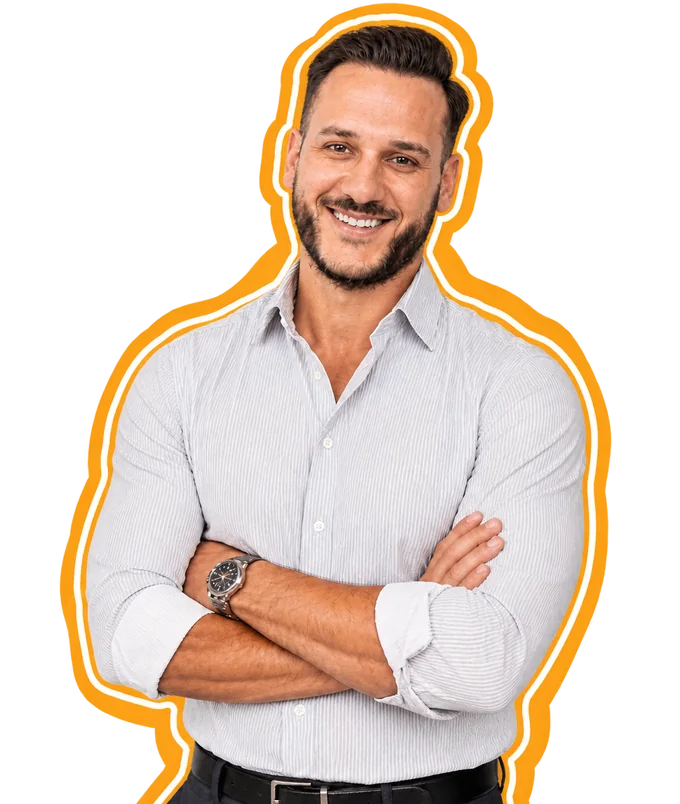
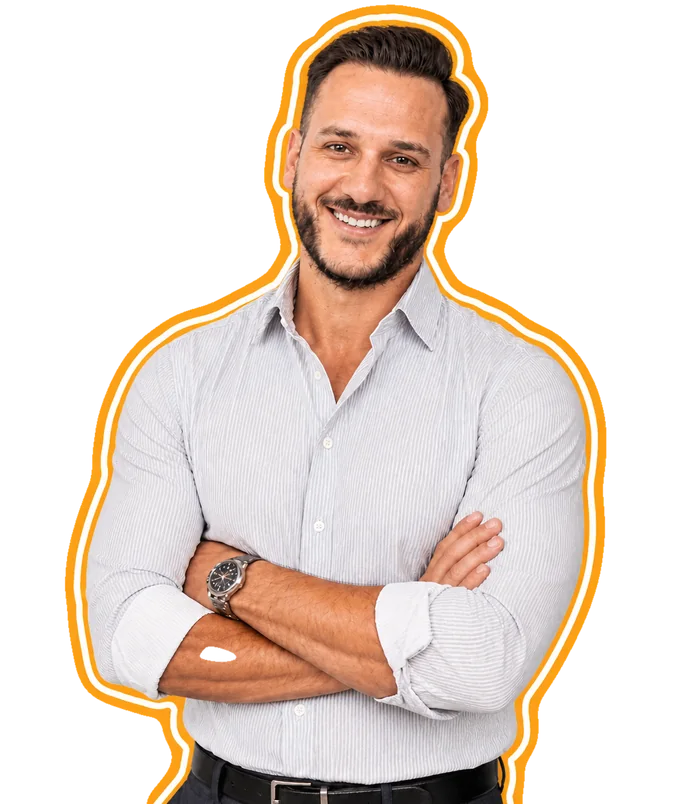
Erstgespraech: duennere Kontur, Mail-Zeile raus, Band flacher und hoeher
Ring: Auftraggeber "umrandung aussen orange etwas zu dick miss nach". Gemessen
in seiner Vorlage 2,73 Prozent der Motivbreite, eingebaut 2,70 - also
unveraendert uebernommen, ich hatte nur zugeschnitten. Jetzt auf
2,01 Prozent beschnitten, am Schirm 8,4 statt 11,3 px bei 1440. Die
Leinwand bleibt 1024x1210, das Seitenverhaeltnis also gueltig.

Mail-Zeile entfernt ("mail weg, nur CTA"), Markup und Regeln. Die
Adresse bleibt seitenweit erreichbar: Kontaktblock, Fusszeile, Formular.

Karte vertikal schmaler (351,9 statt 394,0 px) und das Band hoeher
gerueckt.

Dabei ein Fehler, den die Messung abgefangen hat: beide Aenderungen
fressen denselben Abstand zum Kopf. Er fiel von +36,4 auf -18,7 px, das
Motiv ragte wieder in die Preiskarten. Behoben ueber die Motivbreite
statt ueber den Aussenabstand, damit "hoeher rauf" erhalten bleibt. Die
Zielbreite ist gerechnet: aus 417,6 px mit -18,7 und 360,0 px mit +56,6
ergeben sich 1,307 px Abstand je Pixel Breite, daraus 384 px.

Gemessen bei 1440, 1200, 1000 und 520: Verhaeltnis 0,8463, vier
Stichpunkte ohne Ueberlauf, kein waagrechter Ueberlauf, null
Konsolenfehler.

diff --git a/stil.css b/stil.css
@@ -3389,7 +3389,7 @@ body.langtakt .preis__neu{font-size:1em;opacity:1}
      weiter unten in der Datei und gewaennen sonst allein durch die
      Reihenfolge - .erst__seite{display:none} haette das Motiv bei
      jeder Breite ausgeblendet. */
-  .erst .erst__karte{grid-template-columns:minmax(0,1fr) clamp(300px,29vw,430px);
+  .erst .erst__karte{grid-template-columns:minmax(0,1fr) clamp(290px,26.7vw,400px);
     align-items:end}
   .erst .erst__seite{display:block}
   /* Vier nebeneinander wie in Vorlage 1, nicht zwei mal zwei. */
@@ -3414,22 +3414,22 @@ body.langtakt .preis__neu{font-size:1em;opacity:1}
    1324,8 px Inhaltsbreite bereit (1440 minus zweimal 57,6 px
    Sektionspolster), das Raster nutzt davon 1060. */
 .erst{max-width:min(var(--maxw),1280px);
-  margin:clamp(104px,9.5vw,176px) auto 0}
+  margin:clamp(96px,8.6vw,158px) auto 0}
 
 /* KEIN overflow:hidden. Genau das wuerde den Ueberstand des Motivs
    abschneiden, und der ist hier der ganze Zweck. position:relative,
    damit das Motiv an der KARTE haengt statt an einer Rasterzeile. */
-.erst__karte{position:relative;display:grid;gap:clamp(18px,2.2vw,40px);
+.erst__karte{position:relative;display:grid;gap:clamp(16px,1.9vw,34px);
   color:var(--tinte);border-radius:var(--r-seite);
   border:1px solid rgb(255 255 255 / .6);
-  padding:clamp(22px,2.4vw,44px);
+  padding:clamp(18px,1.9vw,34px);
   background:
     radial-gradient(74% 130% at 86% 6%, rgb(245 165 36 / .15), transparent 70%),
     linear-gradient(112deg, #FFFFFF 0%, #FEFCFA 48%, #FDF5EA 100%);
   box-shadow:0 0 46px -10px rgb(245 165 36 / .42),
     0 0 132px -16px rgb(245 165 36 / .5),
     0 34px 74px -30px rgb(40 22 0 / .55)}
-.erst__text{display:flex;flex-direction:column;gap:clamp(11px,1.1vw,18px);min-width:0}
+.erst__text{display:flex;flex-direction:column;gap:clamp(8px,.8vw,13px);min-width:0}
 /* Offener Akzent statt --violett-tief: hier liegt die Marke auf einer
    nahezu weissen Flaeche und darf die Markenfarbe selbst tragen. */
 .erst__marke{display:inline-block;font-size:clamp(11px,.85vw,13px);font-weight:800;
@@ -3445,7 +3445,7 @@ body.langtakt .preis__neu{font-size:1em;opacity:1}
 /* Die vier Stichpunkte stehen jetzt NEBENeinander, Sinnbild ueber dem
    Wort - Anordnung aus Vorlage 1. Inhaltlich unveraendert. */
 .erst__punkte{display:grid;grid-template-columns:repeat(2,minmax(0,1fr));
-  gap:clamp(12px,1.4vw,24px);list-style:none;margin:clamp(2px,.4vw,8px) 0 0}
+  gap:clamp(10px,1.1vw,18px);list-style:none;margin:clamp(1px,.2vw,4px) 0 0}
 .erst__punkte li{display:grid;gap:9px;justify-items:start}
 .erst__bild{display:grid;place-items:center;width:clamp(34px,2.6vw,44px);
   aspect-ratio:1;flex:0 0 auto;border-radius:var(--r-pille);
@@ -3456,17 +3456,10 @@ body.langtakt .preis__neu{font-size:1em;opacity:1}
 
 /* Knopf und Mail-Zeile in EINER Reihe, wie in der Vorlage. */
 .erst__aktion{display:flex;align-items:center;gap:clamp(12px,1.4vw,26px);
-  flex-wrap:wrap;margin-top:clamp(4px,.6vw,10px)}
-.erst__karte .knopf{padding-top:14px;padding-bottom:14px;font-size:16px}
-.erst__mail{display:flex;align-items:center;gap:11px;text-decoration:none;
-  background:rgb(255 255 255 / .72);border-radius:var(--r-pille);padding:9px 18px 9px 10px;
-  color:var(--tinte);transition:background var(--t-flaeche) var(--kurve)}
-.erst__mail:hover{background:#fff}
-.erst__mailbild{display:grid;place-items:center;width:36px;height:36px;flex:0 0 auto;
-  background:var(--creme-3);border-radius:var(--r-pille);color:var(--tinte)}
-.erst__mailwort{display:grid;line-height:1.28;font-size:12.5px;color:var(--grau)}
-.erst__mailwort b{font-size:15px;font-weight:800;color:var(--tinte);
-  overflow-wrap:anywhere}
+  flex-wrap:wrap;margin-top:clamp(2px,.35vw,6px)}
+.erst__karte .knopf{padding-top:13px;padding-bottom:13px;font-size:15.5px}
+/* Mail-Zeile am 20.09.2026 auf Ansage entfernt ("mail weg, nur
+   CTA"); die zugehoerigen Regeln sind mit dem Markup geloescht. */
 
 /* Das Motiv haengt an der Karte: unten buendig mit deren AUSSENkante
    (darum der negative Wert in Hoehe des Kartenpolsters) und oben

diff --git a/index.html b/index.html
@@ -752,10 +752,6 @@ setTimeout(function(){document.documentElement.classList.remove("laedt")},8000)}
             <a class="knopf knopf--akzent gross erst__knopf" href="#kontakt">
               <span class="rolle"><span>Gespräch buchen</span><span aria-hidden="true">Gespräch buchen</span></span>
             </a>
-            <a class="erst__mail" href="mailto:hallo@klartext-digital.ch">
-              <span class="erst__mailbild" aria-hidden="true"><svg viewBox="0 0 24 24" width="18" height="18"><path d="M3 5.5h18v13H3z" fill="none" stroke="currentColor" stroke-width="1.8" stroke-linejoin="round"/><path d="m3.6 6.4 8.4 6 8.4-6" fill="none" stroke="currentColor" stroke-width="1.8" stroke-linecap="round" stroke-linejoin="round"/></svg></span>
-              <span class="erst__mailwort">Lieber schreiben?<b>hallo@klartext-digital.ch</b></span>
-            </a>
           </div>
         </div>
 
